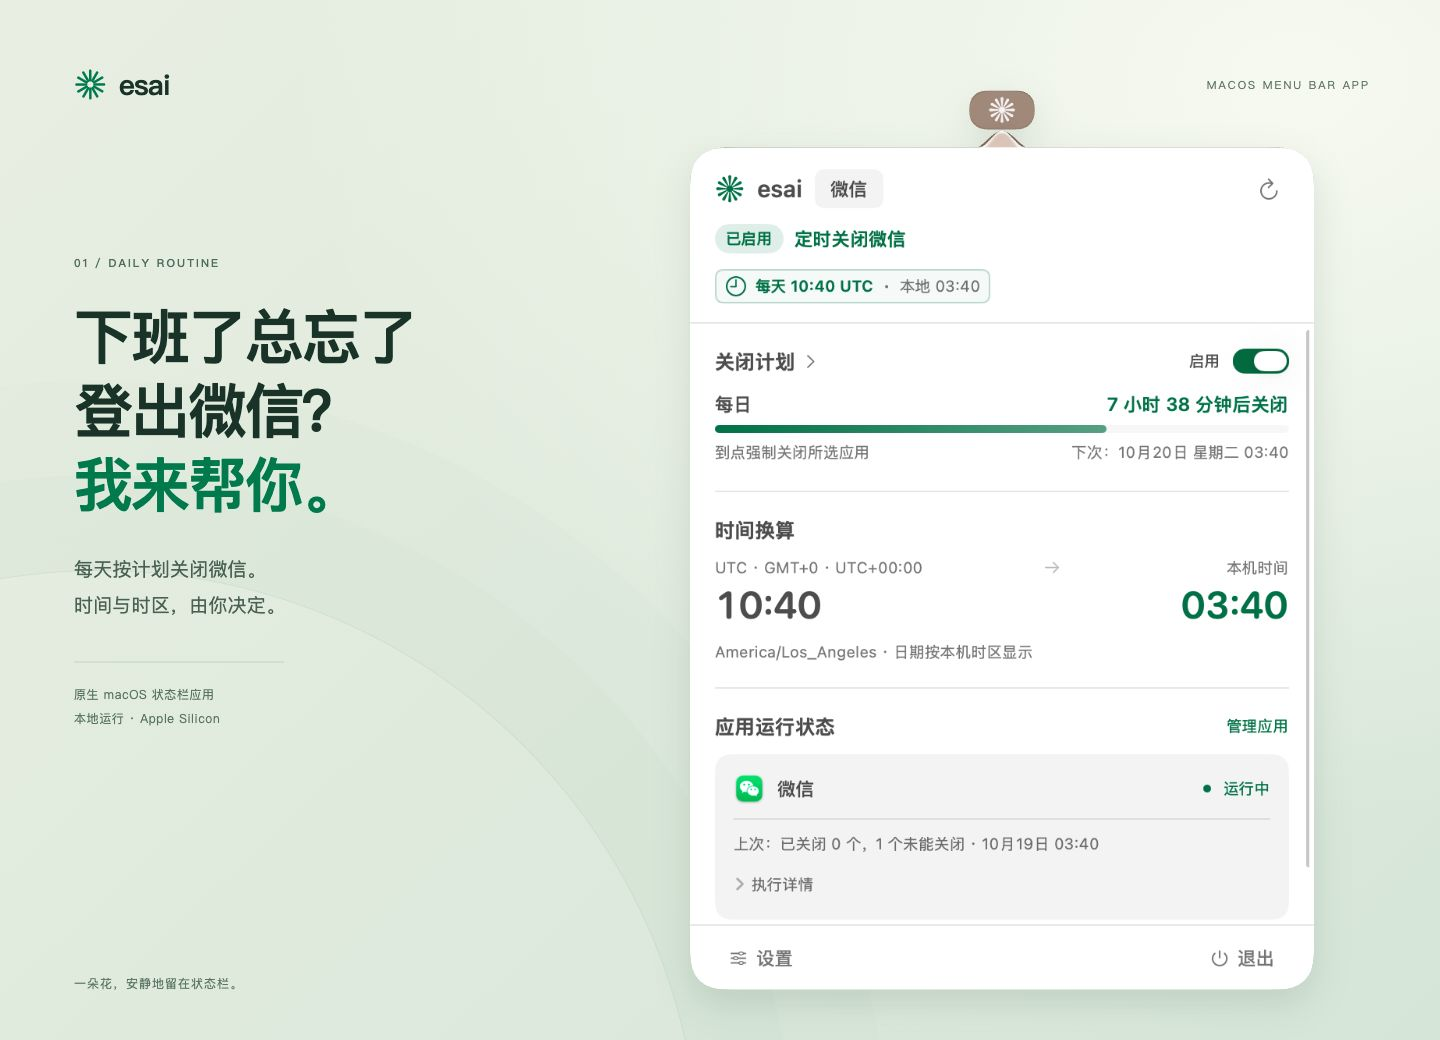
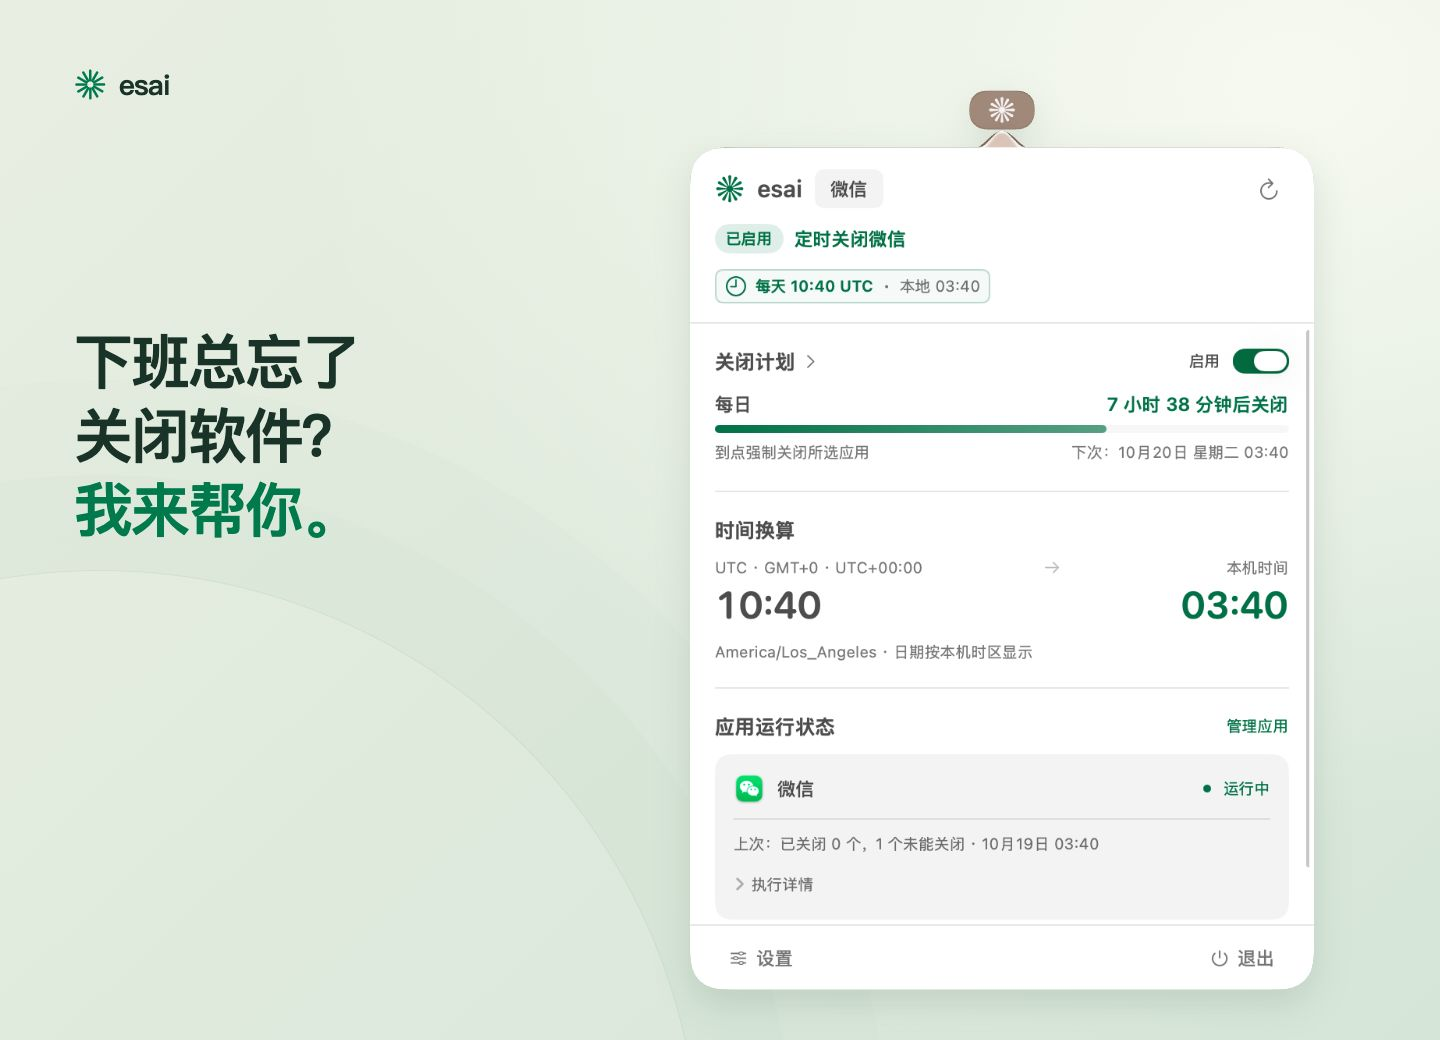
Use approved headline and retain glass comparison background

diff --git a/README.md b/README.md
@@ -4,7 +4,7 @@
 
 # esai 定时关闭
 
-**下班总忘记登出电脑微信？我来帮你。**
+**下班总忘了关闭软件？我来帮你。**
 
 原生 macOS 状态栏应用，按每日计划关闭微信或你选定的多个应用。
 
@@ -17,7 +17,7 @@
 
 </div>
 
-![下班了总忘了登出微信？我来帮你。基于 esai 实机截图制作](docs/screenshots/product-v2/overview.jpg)
+![下班总忘了关闭软件？我来帮你。基于 esai 实机截图制作](docs/screenshots/product-v2/overview.jpg)
 
 ## 亮点
 
@@ -33,16 +33,16 @@
 
 ## 实机截图
 
-以下展示基于真实 Mac 截图制作，保留 esai 的原始界面、状态栏花朵与弹窗尖角；周边网页和其他状态栏内容已移除。透明玻璃图保留面板内部的真实透色效果。
+以下展示基于真实 Mac 截图制作，保留 esai 原始界面。状态栏仅保留 esai 花朵；实色图清理周边内容，透明图保留桌面和网页背景，用于对比玻璃透色效果。
 
 <table>
 <tr>
-<td width="50%"><img src="docs/screenshots/product-v2/multiple-apps.jpg" alt="一个计划，收好多个应用：esai 多应用关闭实机展示" /></td>
-<td width="50%"><img src="docs/screenshots/product-v2/transparent-glass.jpg" alt="轻轻透出桌面：esai 透明玻璃面板实机展示" /></td>
+<td width="50%"><img src="docs/screenshots/product-v2/multiple-apps.jpg" alt="esai 多应用关闭实机截图" /></td>
+<td width="50%"><img src="docs/screenshots/product-v2/transparent-glass.jpg" alt="esai 透明玻璃背景实机截图" /></td>
 </tr>
 </table>
 
-![属于你的颜色，属于你的 esai：强调色和外观设置实机展示](docs/screenshots/product-v2/appearance.jpg)
+![esai 外观与强调色设置实机截图](docs/screenshots/product-v2/appearance.jpg)
 
 ## 安装
 

diff --git a/README_EN.md b/README_EN.md
@@ -4,8 +4,6 @@
 
 # esai
 
-**Forgot to log out of WeChat after work? I've got you.**
-
 A native macOS menu bar app that closes WeChat or multiple selected apps on a daily schedule.
 
 [Download](https://github.com/fitzsmith2000/esai/releases/latest) · [简体中文](README.md) · [Report an issue](https://github.com/fitzsmith2000/esai/issues)
@@ -28,7 +26,7 @@ A native macOS menu bar app that closes WeChat or multiple selected apps on a da
 
 ## Real Mac screenshots
 
-These product images use real Mac captures. The original esai interface, menu bar flower, and popover arrow are preserved; surrounding webpages and unrelated menu bar content have been removed. The glass image retains the real translucent colors inside the panel.
+These images use real Mac captures. Only the esai flower is retained in the menu bar. Surroundings are removed from the solid-panel captures; the transparent capture keeps its desktop and webpage background to show the glass effect.
 
 <table>
 <tr>
